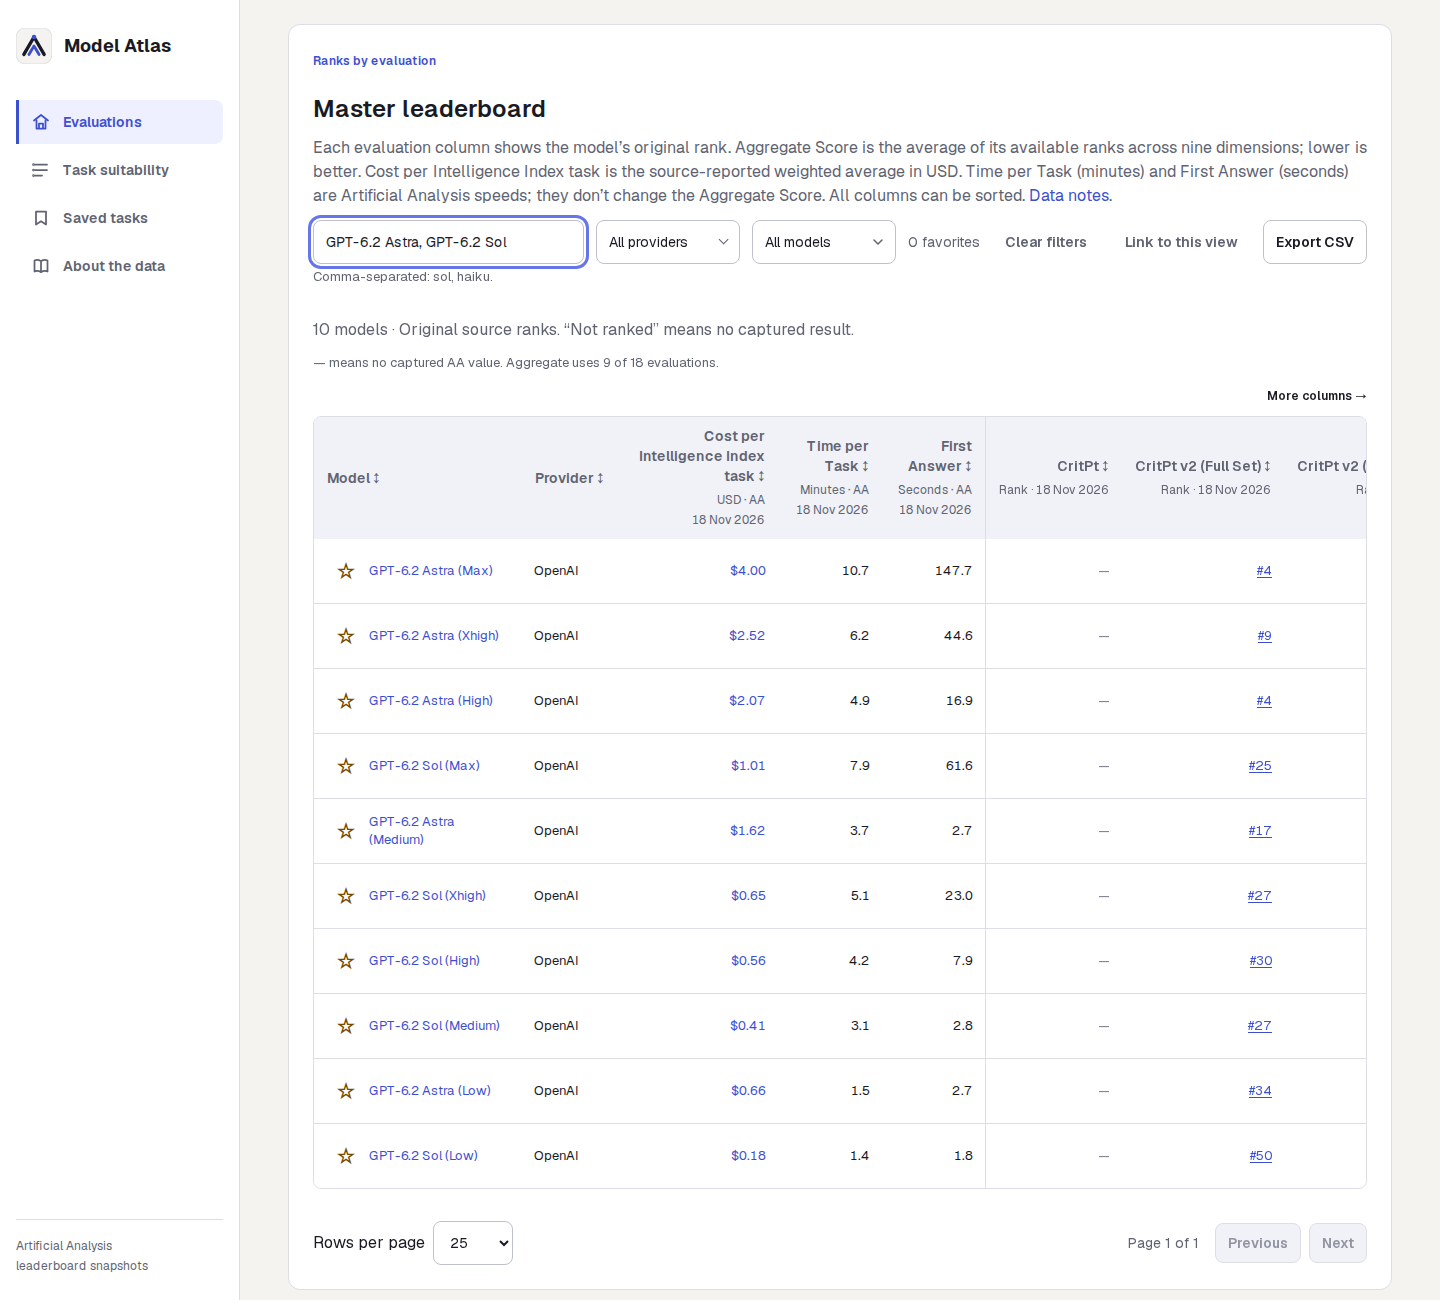
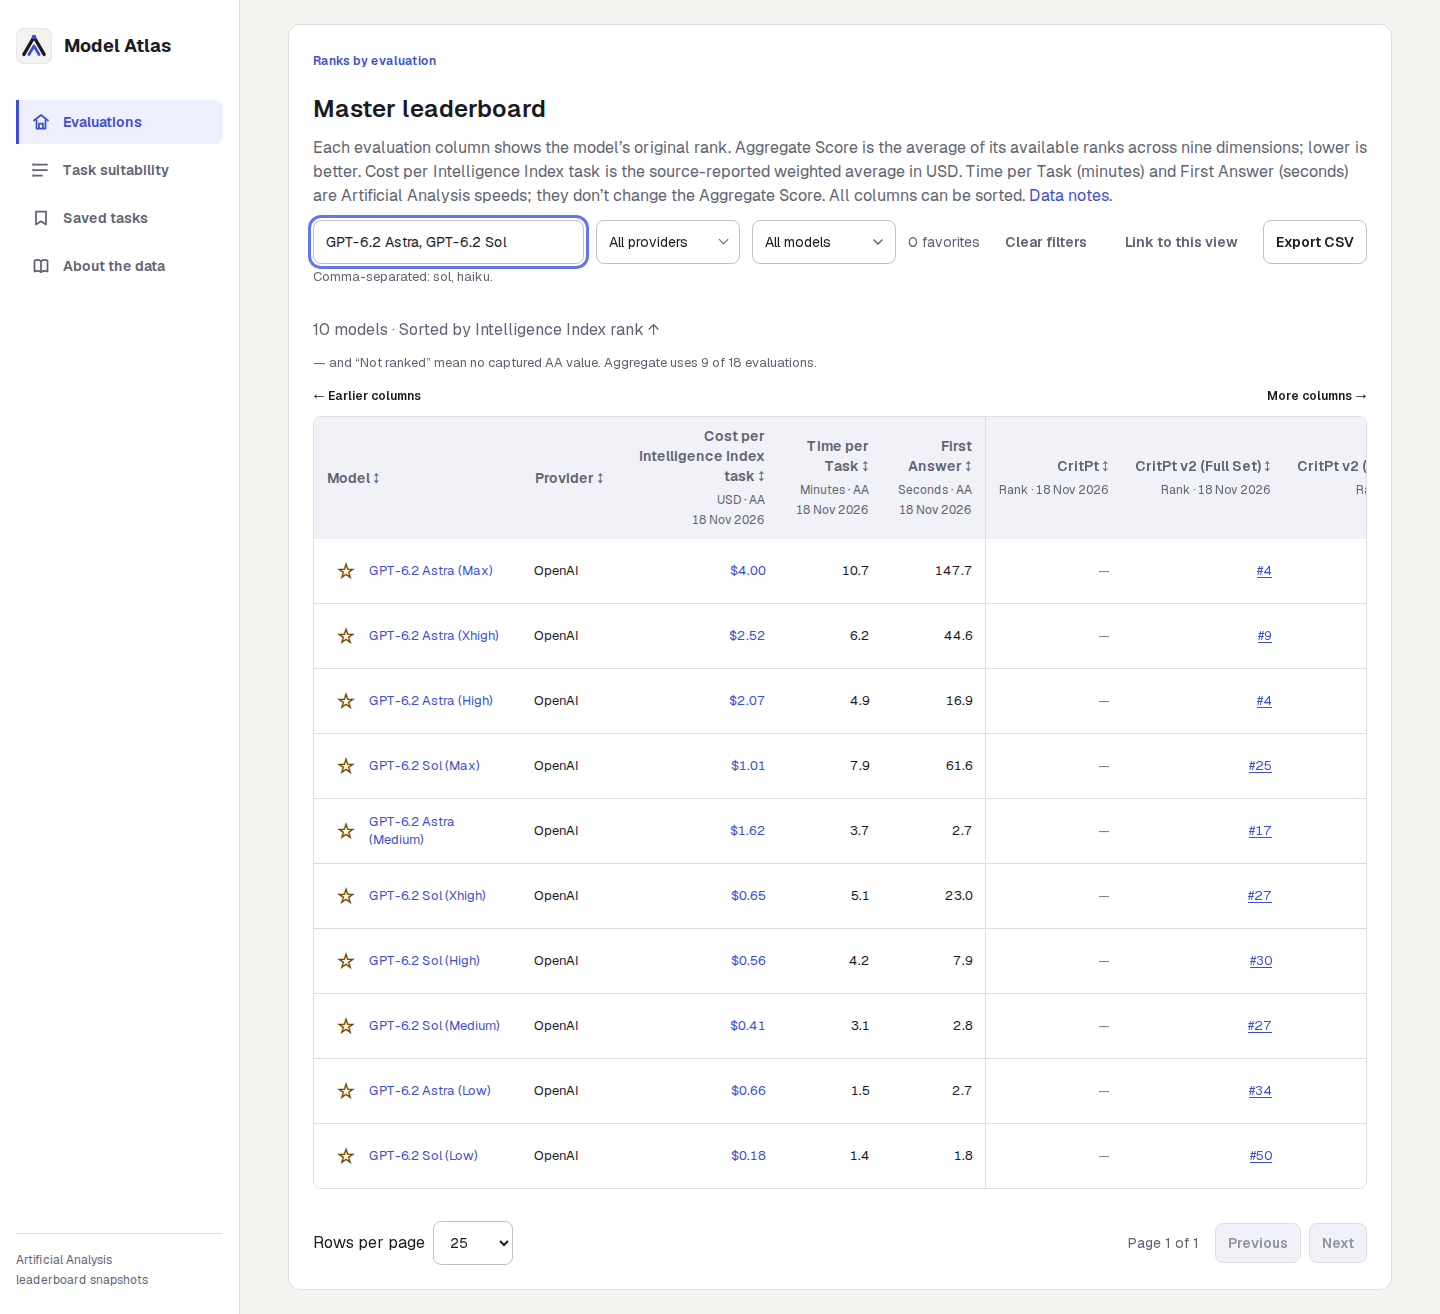
fix: clarify leaderboard sorting and scroll states
Explain both missing-rank markers, show the active master sort when its column is off-screen, and give the aggregate dimension count room on the score line. Add the earlier-columns cue, highlight the Evaluations section, and make the evaluation score prominent on phone cards.

Retake the 1440px and 390px views with the full desktop sidebar footer, plus three evaluation pages and three master filters that share the changes. The Hydrogen and GPT-6.2 browser passes cover 18 evaluations each.

diff --git a/src/components/master-leaderboard.tsx b/src/components/master-leaderboard.tsx
@@ -97,6 +97,7 @@ export default function MasterLeaderboard({rows,evaluations,costCapturedLabel,sp
     {value:"aggregate-score",label:"Aggregate Score"},
     ...orderedEvaluations.map(e=>({value:e.id,label:masterEvaluationLabel(e)})),
   ];
+  const sortLabel=sortOptions.find(option=>option.value===sort)?.label;
   const update=useCallback((values:Record<string,string|number|string[]>,history:"push"|"replace"="replace")=>{const next=new URLSearchParams(window.location.search);next.set("mi","1");for(const [k,v]of Object.entries(values)){next.delete(k);if(Array.isArray(v))v.forEach(value=>{if(value)next.append(k,value);});else if(v!=="")next.set(k,String(v));}const href=`/?${next}#master-leaderboard`;if(history==="push")router.push(href,{scroll:false});else router.replace(href,{scroll:false});},[router]);
   const commitSearch=useCallback((value:string)=>{
     setSearchTerm(value);
@@ -143,7 +144,9 @@ export default function MasterLeaderboard({rows,evaluations,costCapturedLabel,sp
         <Button className="master-mobile-controls__filters" variant="secondary" size="default" aria-haspopup="dialog" onClick={()=>setFiltersOpen(true)}>Filters{activeFilterCount?` · ${activeFilterCount} active`:""}</Button>
       </div>
     </div>
-    <p aria-live="polite">{sorted.length.toLocaleString()} {sorted.length===1?"model":"models"}{selectedProviders.length?` · ${providerSelectionLabel(selectedProviders)}`:""}{favoritesOnly?` · ${favorites.length} favorites saved in this browser`:""} · Original source ranks. “Not ranked” means no captured result.</p><HelperText className="leaderboard-legend">— means no captured AA value. Aggregate uses 9 of {orderedEvaluations.length} evaluations.</HelperText>{favoriteNotice&&<Alert role="status" live="polite" tone="error">{favoriteNotice}</Alert>}
+    <p aria-live="polite">{sorted.length.toLocaleString()} {sorted.length===1?"model":"models"}{selectedProviders.length?` · ${providerSelectionLabel(selectedProviders)}`:""}{favoritesOnly?` · ${favorites.length} favorites saved in this browser`:""}<span className="master-sort-summary"> · Sorted by {sortLabel}{sortedEvaluation?" rank":""} {direction==="asc"?"↑":"↓"}</span></p>
+    <HelperText className="leaderboard-legend">— and “Not ranked” mean no captured AA value. Aggregate uses 9 of {orderedEvaluations.length} evaluations.</HelperText>
+    {favoriteNotice&&<Alert role="status" live="polite" tone="error">{favoriteNotice}</Alert>}
     <TableScroll showOverflowCue className="master-table-view" label="Master leaderboard, scroll horizontally for evaluations"><Table><caption className="sr-only">Model ranks, aggregate rank scores, Intelligence Index task costs and speeds across every evaluation</caption><thead><tr>{header("model","Model","master-model")}{header("provider","Provider","master-provider")}{metricHeader("intelligence-index-cost","master-cost","Cost per Intelligence Index task",speedDetail("USD",costCapturedLabel),`Artificial Analysis model profile values · captured ${costCapturedLabel}`)}{metricHeader("time-per-task","master-time","Time per Task",speedDetail("Minutes",speedCapturedLabel),`Average time per Intelligence Index task from Artificial Analysis · captured ${speedCapturedLabel}`)}{metricHeader("first-answer","master-first","First Answer",speedDetail("Seconds",speedCapturedLabel),`Time to first answer token on the creator's API, from Artificial Analysis · captured ${speedCapturedLabel}`)}{metricHeader("aggregate-score","master-aggregate","Aggregate Score","Average rank · lower is better","Arithmetic mean of available source ranks across the nine selected dimensions; lower is better")}{orderedEvaluations.map(e=>{const label=masterEvaluationLabel(e);return <th key={e.id} scope="col" className="numeric" aria-sort={sort===e.id?(direction==="asc"?"ascending":"descending"):"none"}><Button variant="quiet" size="compact" title={`Original source rank · captured ${capturedDate(e.captured_at)}`} onClick={()=>update({ms:e.id,md:sort===e.id&&direction==="asc"?"desc":"asc"})}>{label} {sort===e.id?(direction==="asc"?"↑":"↓"):"↕"}<small>Rank · {capturedDate(e.captured_at)}</small></Button></th>;})}</tr></thead><tbody>{pageRows.map(r=>{const aggregate=averageMasterRank(r);return <tr key={r.model_id}><td className="master-model"><IconButton className="favorite-star" size="compact" type="button" aria-pressed={favorites.includes(r.identity_key)} aria-label={`${favorites.includes(r.identity_key)?"Remove":"Add"} ${r.model} to favorites`} title={`${favorites.includes(r.identity_key)?"Remove from":"Add to"} favorites`} onClick={()=>toggleFavorite(r.identity_key)}>{favorites.includes(r.identity_key)?"★":"☆"}</IconButton> <Link href={`/?mq=${encodeURIComponent(r.model)}&mp=${encodeURIComponent(r.provider)}#master-leaderboard`}>{r.model}</Link></td><td className="master-provider">{r.provider}</td><td className="numeric master-cost">{r.intelligence_index_cost?<a href={r.intelligence_index_cost.url} target="_blank" rel="noreferrer" title={`Artificial Analysis profile for ${r.intelligence_index_cost.model} · cost captured ${r.intelligence_index_cost.profile_captured_at}`}>{costFormatter.format(r.intelligence_index_cost.cost_usd)}</a>:<span className="muted">—</span>}</td><td className="numeric master-time">{speedValue(r.speed?.time_per_task_s,formatTimePerTask)}</td><td className="numeric master-first">{speedValue(r.speed?.first_answer_s,formatFirstAnswer)}</td><td className="numeric master-aggregate">{aggregate?<span title={`Average of ${aggregate.count} of 9 available source ranks`} aria-label={`${aggregate.score.toFixed(1)} average rank based on ${aggregate.count} of 9 dimensions`}>{aggregate.score.toFixed(1)}<small>{aggregate.count}/9 dims</small></span>:<span className="muted" title="No source rank in any of the nine aggregate dimensions">—</span>}</td>{orderedEvaluations.map(e=>{const c=r.cells[e.id];const label=masterEvaluationLabel(e);return <td key={e.id} className="numeric">{c?<Link className="source-rank" href={c.href} title={c.entry.scoring_status??"Original source rank"} aria-label={`${r.model}, ${label}, original source rank ${c.entry.source_rank}`}>#{c.entry.source_rank}</Link>:<MissingEvaluationRank evaluationId={e.id}/>}</td>;})}</tr>;})}{!sorted.length&&<tr><td className="empty" colSpan={orderedEvaluations.length+6}>No models match these filters.</td></tr>}</tbody></Table></TableScroll>
     <ul className="master-cards" aria-label="Master leaderboard models">
       {pageRows.map(r=><MasterCard key={r.model_id} row={r} favorite={favorites.includes(r.identity_key)} orderedEvaluations={orderedEvaluations} sortedEvaluation={sortedEvaluation} onToggleFavorite={toggleFavorite}/>)}

diff --git a/src/app/globals.css b/src/app/globals.css
@@ -332,7 +332,7 @@ textarea:disabled {
   text-decoration: none;
 }
 
-.app-navigation__link[aria-current="page"] {
+.app-navigation__link[aria-current] {
   border-left-color: var(--primary);
   background: var(--selected-bg);
   color: var(--primary);
@@ -1253,6 +1253,17 @@ th.numeric {
   font-weight: var(--type-weight-semibold);
 }
 
+.master-mobile-controls select {
+  color: var(--text-primary);
+  font-weight: var(--type-weight-regular);
+}
+
+@media (max-width: 767px) {
+  .master-sort-summary {
+    display: none;
+  }
+}
+
 .master-mobile-controls > .ui-button:not(.master-mobile-controls__filters) {
   min-height: 44px;
 }
@@ -1980,6 +1991,12 @@ a.ui-button:hover {
     font-size: var(--font-size-caption);
   }
 
+  .evaluation-card__score {
+    color: var(--text-primary);
+    font-size: var(--font-size-ui);
+    font-weight: var(--type-weight-semibold);
+  }
+
   .evaluation-card .master-card__metrics {
     margin-bottom: 0;
   }
@@ -2015,7 +2032,6 @@ a.ui-button:hover {
   min-height: 1.25rem;
   margin-bottom: var(--space-2);
   display: flex;
-  justify-content: flex-end;
 }
 
 .table-overflow-cue {
@@ -2025,21 +2041,19 @@ a.ui-button:hover {
   pointer-events: none;
 }
 
+.table-overflow-cue--more {
+  margin-inline-start: auto;
+}
+
 @media (max-width: 767px) {
   .table-overflow-cue-slot {
     display: none;
   }
 }
 
-.master tbody .master-aggregate > span {
-  display: block;
-  position: relative;
-}
-
 .master tbody .master-aggregate small {
-  position: absolute;
-  top: 100%;
-  right: 0;
+  display: inline;
+  margin: 0 0 0 var(--space-2);
   white-space: nowrap;
 }
 

diff --git a/src/components/ui/table-scroll-frame.tsx b/src/components/ui/table-scroll-frame.tsx
@@ -3,11 +3,15 @@
 import { useEffect, useState, type ReactNode } from "react";
 
 export function TableScrollFrame({ regionId, children }: { regionId: string; children: ReactNode }) {
+  const [earlierColumns, setEarlierColumns] = useState(false);
   const [moreColumns, setMoreColumns] = useState(false);
   useEffect(() => {
     const region = document.getElementById(regionId);
     if (!region) return;
-    const update = () => setMoreColumns(region.scrollWidth - region.clientWidth - region.scrollLeft > 1);
+    const update = () => {
+      setEarlierColumns(region.scrollLeft > 1);
+      setMoreColumns(region.scrollWidth - region.clientWidth - region.scrollLeft > 1);
+    };
     const observer = new ResizeObserver(update);
     observer.observe(region);
     if (region.firstElementChild) observer.observe(region.firstElementChild);
@@ -17,7 +21,8 @@ export function TableScrollFrame({ regionId, children }: { regionId: string; chi
   }, [regionId]);
   return <div className="table-scroll-frame">
     <div className="table-overflow-cue-slot" aria-hidden="true">
-      {moreColumns && <span className="table-overflow-cue">More columns →</span>}
+      {earlierColumns && <span className="table-overflow-cue table-overflow-cue--earlier">← Earlier columns</span>}
+      {moreColumns && <span className="table-overflow-cue table-overflow-cue--more">More columns →</span>}
     </div>
     {children}
   </div>;

diff --git a/src/components/app-shell.tsx b/src/components/app-shell.tsx
@@ -14,7 +14,7 @@ const links = [
 ] as const;
 
 function isCurrentPath(pathname: string, href: string) {
-  if (href === "/") return pathname === "/";
+  if (href === "/") return pathname === "/" || pathname.startsWith("/leaderboards/");
   if (href === "/suitability/saved") return pathname === href;
   if (href === "/suitability") return pathname === href || (pathname.startsWith("/suitability/") && pathname !== "/suitability/saved");
   return pathname === href || pathname.startsWith(`${href}/`);
@@ -38,7 +38,7 @@ function Navigation({ pathname, onNavigate }: { pathname: string; onNavigate?: (
             className="app-navigation__link"
             href={item.href}
             key={item.href}
-            aria-current={current ? "page" : undefined}
+            aria-current={current ? (item.href === "/" && pathname !== "/" ? "location" : "page") : undefined}
             onClick={onNavigate}
           >
             <NavIcon name={item.icon} />

diff --git a/src/components/leaderboard.tsx b/src/components/leaderboard.tsx
@@ -24,7 +24,7 @@ function EvaluationCard({entry,evaluation,speed,cost}:{entry:Entry;evaluation:Ev
   return <li className="master-card evaluation-card" data-model={entry.model} data-provider={entry.provider}>
     <div className="evaluation-card__head">
       <strong>#{entry.source_rank} {entry.model}</strong>
-      <small>{entry.provider} · {evaluation.metric_label}: {evaluationScoreDisplay(evaluation,entry)}</small>
+      <small>{entry.provider} · <span className="evaluation-card__score">{evaluation.metric_label}: {evaluationScoreDisplay(evaluation,entry)}</span></small>
     </div>
     <dl className="master-card__metrics">
       <div><dt>{evaluationTimePerTaskLabel(evaluation.id)} (min)</dt><dd><SpeedValue speed={speed} seconds={evaluationTimePerTask(evaluation.id,speed)} format={formatTimePerTask}/></dd></div>

diff --git a/docs/approved-looks.md b/docs/approved-looks.md
@@ -1,5 +1,6 @@
 # Looks the design approves on purpose; the fresh-eyes checker is told not to report them
 
-- Desktop master and evaluation tables scroll horizontally. A partial far-right column indicates more columns; the frozen Model column, scroll-region label and “More columns →” caption make that continuation explicit.
+- Desktop master and evaluation tables scroll horizontally. Frozen model names and “← Earlier columns” / “More columns →” captions show where other columns continue.
 - A phone favorite star is centered in its 44×44 button. The button's left edge aligns with the metric tiles; the glyph's inset preserves the touch area and is intentional.
 - The About-data phone first-screen capture ends partway through the scrolling article. The heading and capture date are whole; the article continues below the viewport.
+- Evaluation cost and timing values are blue links to Artificial Analysis model profiles. Master timing values are plain text.
